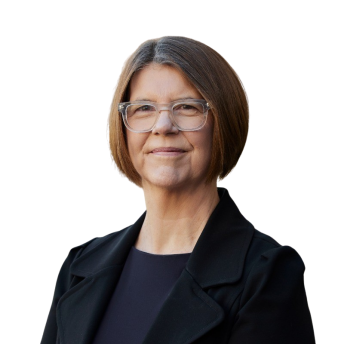
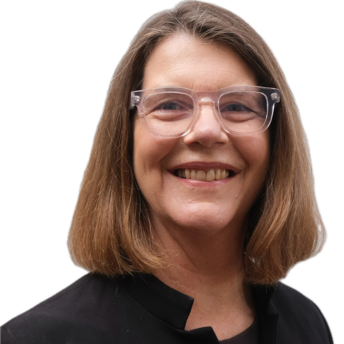
fix(website): update board member bio & photo

diff --git a/app/web/views.py b/app/web/views.py
@@ -110,15 +110,16 @@ BOARD = [
         "name": "Kim Shaw",
         "title": "Chair",
         "brags": [
-            """Kim is an experienced Board Director and Committee member who
-            brings strong governance, legal, risk and strategic capabilities to
-            these environments. She is an Executive Director and the Division
-            Head of Personal Legal Services at Maurice Blackburn Lawyers, as
-            well as a member of the RMIT Law Advisory Board.  She is also a
-            Director of an NGO that supports sustained economic development in
-            disadvantaged and vulnerable communities in the Asia Pacific
-            including through financial literacy in schools and supporting micro
-            enterprises particularly for women."""
+            """Kim is an experienced Board Director with strong governance, legal,
+            risk, and strategic expertise. She also serves on the Board of the
+            Queen Elizabeth Centre, focusing on early parenting and child
+            wellbeing, and is Director and Chair of ARC at CUFA, an NGO
+            supporting economic sustainability in vulnerable Asia Pacific
+            communities.""",
+            """Kim retired from legal practice in June 2025 after 34
+            years at Maurice Blackburn Lawyers, where she served on the firm’s
+            Board for six years. She has also served on advisory boards at RMIT
+            Law School and the Law Institute of Victoria.""",
         ],
     },
     {
